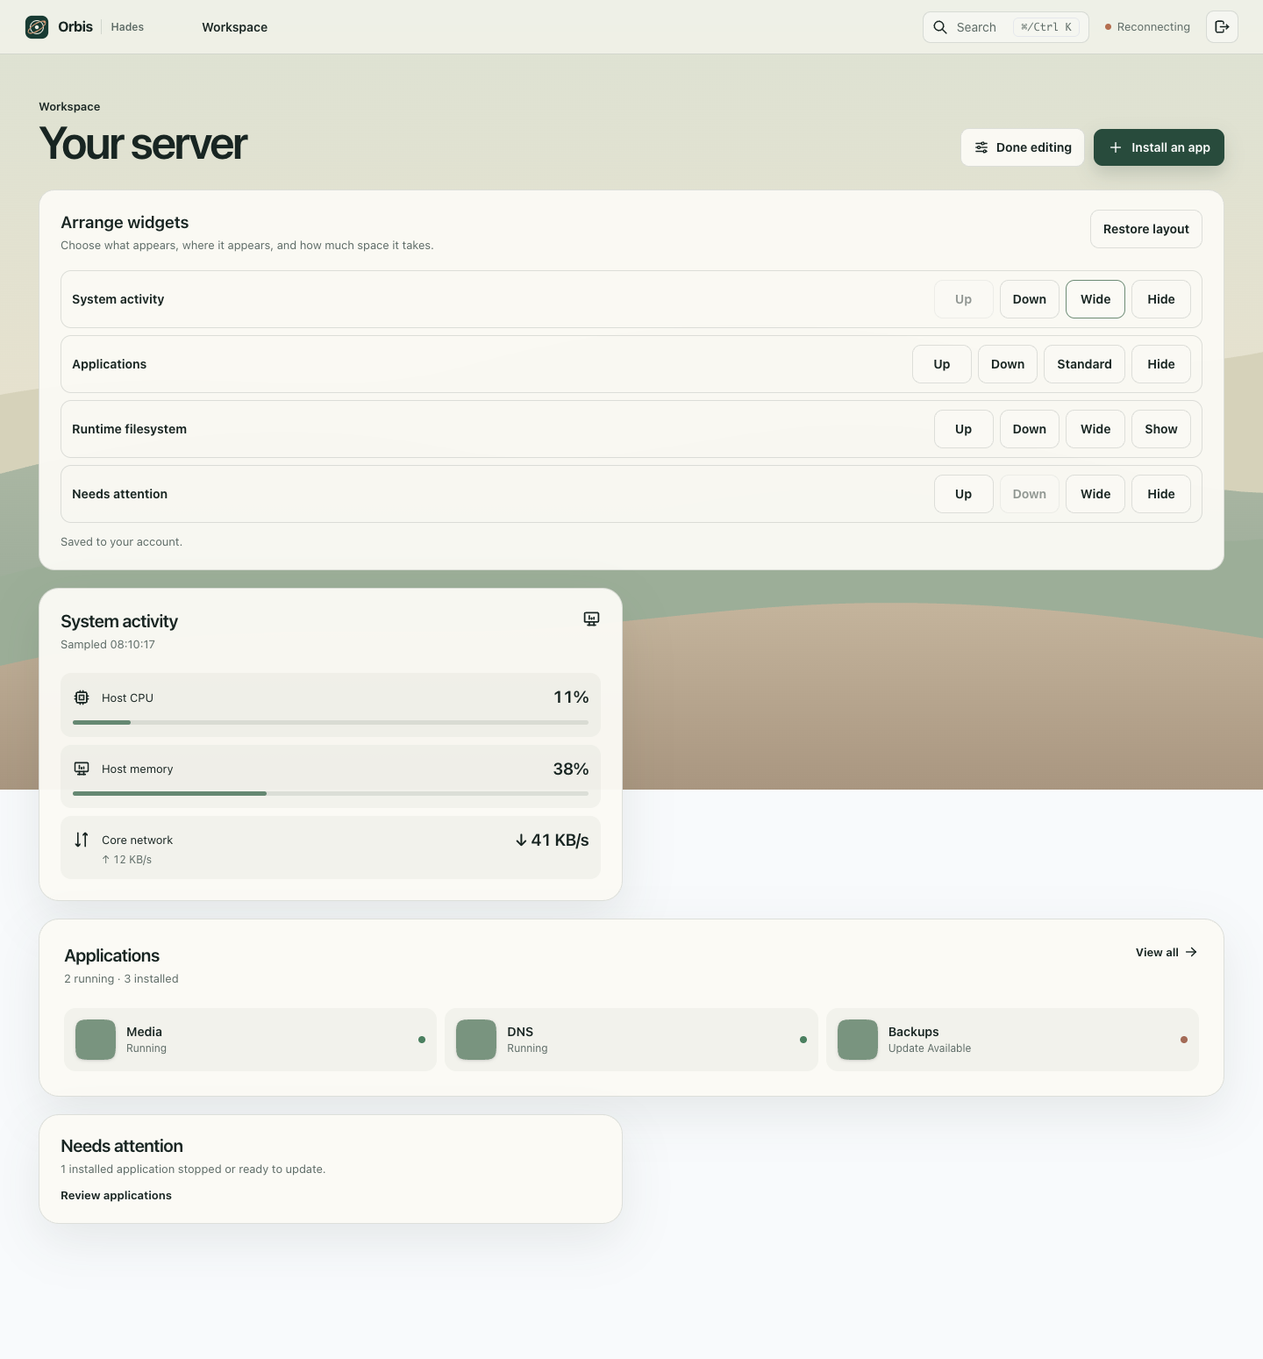
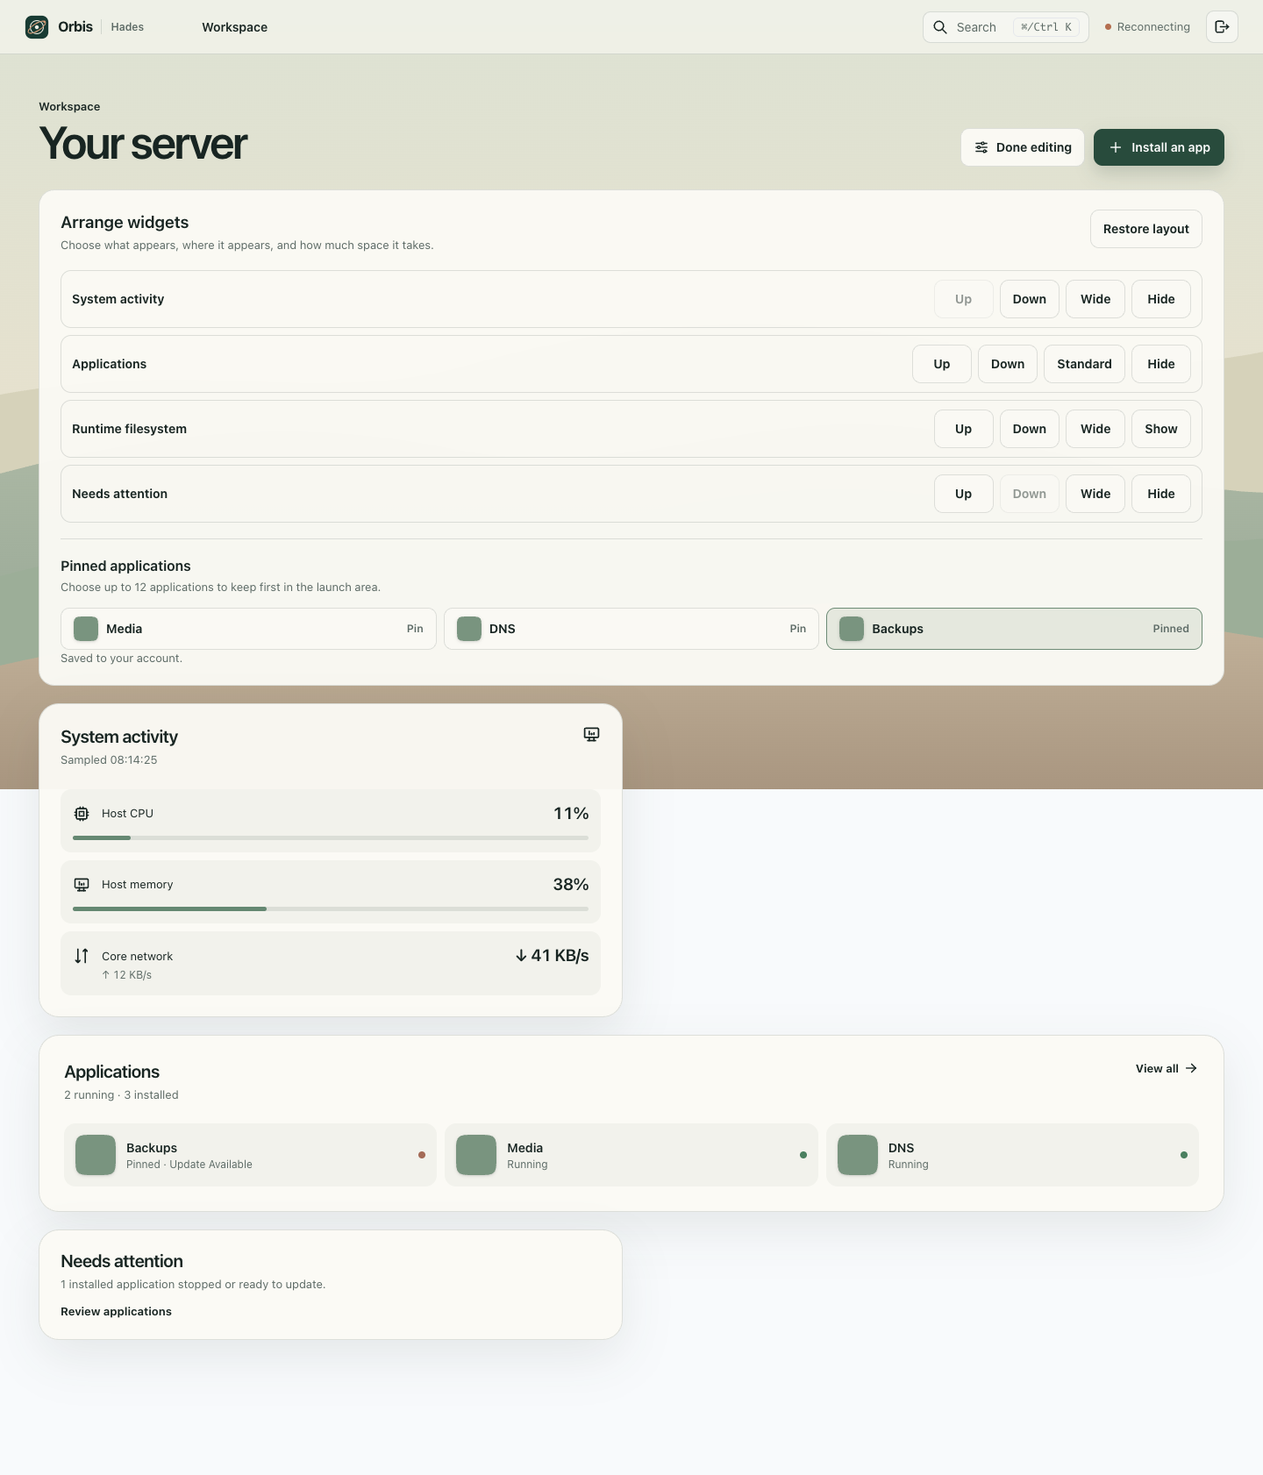
Add per-user application pinning to Workspace

diff --git a/packages/frontend/src/modules/dashboard/pages/dashboard.tsx b/packages/frontend/src/modules/dashboard/pages/dashboard.tsx
@@ -52,6 +52,17 @@ export default function Dashboard() {
     refetchIntervalInBackground: false,
   });
   const installed = apps.data?.installed.filter(({ info }) => info.available) ?? [];
+  const orderedInstalled = [...installed].sort((left, right) => {
+    const leftPin = workspace.pinnedApps.indexOf(left.info.urn);
+    const rightPin = workspace.pinnedApps.indexOf(right.info.urn);
+    if (leftPin < 0 && rightPin < 0) return 0;
+    if (leftPin < 0) return 1;
+    if (rightPin < 0) return -1;
+    return leftPin - rightPin;
+  });
+  const installedUrns = new Set(installed.map(({ info }) => info.urn));
+  const missingPins = workspace.pinnedApps.filter((urn) => !installedUrns.has(urn));
+  const visibleInstalled = orderedInstalled.slice(0, Math.max(8, workspace.pinnedApps.length - missingPins.length));
   const running = installed.filter(({ app }) => app.status === 'running').length;
   const attention = installed.filter(({ app, metadata }) => app.status === 'stopped' || Number(app.version) < Number(metadata.latestVersion)).length;
   const disk = system.data?.filesystems.find((filesystem) => filesystem.mount === '/') ?? system.data?.filesystems[0];
@@ -83,6 +94,11 @@ export default function Dashboard() {
   const toggle = (id: WidgetId, field: 'hidden' | 'wide') => {
     const current = workspace[field];
     saveWorkspace({ ...workspace, [field]: current.includes(id) ? current.filter((item) => item !== id) : [...current, id] });
+  };
+  const togglePin = (urn: string) => {
+    const current = workspace.pinnedApps;
+    if (!current.includes(urn) && current.length >= 12) return;
+    saveWorkspace({ ...workspace, pinnedApps: current.includes(urn) ? current.filter((item) => item !== urn) : [...current, urn] });
   };
 
   const widgets: Record<WidgetId, ReactNode> = {
@@ -124,7 +140,7 @@ export default function Dashboard() {
         ) : null}
         {installed.length > 0 ? (
           <div className="workspace-app-list">
-            {installed.slice(0, 8).map(({ app, info, metadata }) => {
+            {visibleInstalled.map(({ app, info, metadata }) => {
               const [appId, storeId] = info.urn.split(':');
               const appUpdate = Number(app.version) < Number(metadata.latestVersion) && app.ignoredVersion !== metadata.latestVersion;
               return (
@@ -132,12 +148,12 @@ export default function Dashboard() {
                   key={info.urn}
                   to={`/apps/${storeId}/${appId}`}
                   className="workspace-app"
-                  aria-label={`${info.name}, ${app.status}${appUpdate ? ', update available' : ''}`}
+                  aria-label={`${info.name}, ${app.status}${appUpdate ? ', update available' : ''}${workspace.pinnedApps.includes(info.urn) ? ', pinned' : ''}`}
                 >
                   <AppLogo urn={info.urn} size={46} alt="" />
                   <span className="workspace-app-copy">
                     <strong>{info.name}</strong>
-                    <small>{appUpdate ? 'Update available' : app.status}</small>
+                    <small>{`${workspace.pinnedApps.includes(info.urn) ? 'Pinned · ' : ''}${appUpdate ? 'Update available' : app.status}`}</small>
                   </span>
                   <span className={`workspace-app-status ${app.status}`} aria-hidden="true" />
                 </Link>
@@ -272,6 +288,7 @@ export default function Dashboard() {
                   order: [...defaultDesktopPreferences.workspace.order],
                   hidden: [],
                   wide: [...defaultDesktopPreferences.workspace.wide],
+                  pinnedApps: [...workspace.pinnedApps],
                 })
               }
             >
@@ -312,6 +329,44 @@ export default function Dashboard() {
               </li>
             ))}
           </ol>
+          <div className="workspace-pin-editor">
+            <div>
+              <h3>Pinned applications</h3>
+              <p>Choose up to 12 applications to keep first in the launch area.</p>
+            </div>
+            {apps.isPending ? <p>Loading installed applications…</p> : null}
+            {apps.isError ? <p role="alert">Applications could not be loaded. Pinning is unavailable right now.</p> : null}
+            {apps.data && installed.length === 0 ? <p>Install an application to pin it here.</p> : null}
+            {installed.length > 0 ? (
+              <div className="workspace-pin-list">
+                {installed.map(({ info }) => {
+                  const pinned = workspace.pinnedApps.includes(info.urn);
+                  return (
+                    <button
+                      key={info.urn}
+                      type="button"
+                      aria-pressed={pinned}
+                      aria-label={`${pinned ? 'Unpin' : 'Pin'} ${info.name}`}
+                      disabled={!pinned && workspace.pinnedApps.length >= 12}
+                      onClick={() => togglePin(info.urn)}
+                    >
+                      <AppLogo urn={info.urn} size={28} alt="" />
+                      <span>{info.name}</span>
+                      <small>{pinned ? 'Pinned' : 'Pin'}</small>
+                    </button>
+                  );
+                })}
+              </div>
+            ) : null}
+            {missingPins.length > 0 ? (
+              <button
+                type="button"
+                onClick={() => saveWorkspace({ ...workspace, pinnedApps: workspace.pinnedApps.filter((urn) => installedUrns.has(urn)) })}
+              >
+                Remove {missingPins.length} unavailable pin{missingPins.length === 1 ? '' : 's'}
+              </button>
+            ) : null}
+          </div>
           <p className="workspace-editor-sync" role={syncState === 'error' ? 'alert' : undefined}>
             {syncState === 'saving'
               ? 'Saving layout…'

diff --git a/packages/frontend/src/desktop/preferences.tsx b/packages/frontend/src/desktop/preferences.tsx
@@ -4,7 +4,7 @@ import { useUIStore } from '@/stores/ui-store';
 
 export const widgetIds = ['applications', 'activity', 'storage', 'attention'] as const;
 export type WidgetId = (typeof widgetIds)[number];
-export type WorkspacePreferences = { order: WidgetId[]; hidden: WidgetId[]; wide: WidgetId[] };
+export type WorkspacePreferences = { order: WidgetId[]; hidden: WidgetId[]; wide: WidgetId[]; pinnedApps: string[] };
 
 export type DesktopPreferences = {
   serverName: string;
@@ -19,20 +19,30 @@ export const defaultDesktopPreferences: DesktopPreferences = {
   preset: 'frost',
   density: 'comfortable',
   wallpaper: 'sandstone',
-  workspace: { order: [...widgetIds], hidden: [], wide: ['applications', 'activity'] },
+  workspace: { order: [...widgetIds], hidden: [], wide: ['applications', 'activity'], pinnedApps: [] },
 };
 const STORAGE_KEY = 'server-desktop-preferences-v1';
 
-type StoredDesktopPreferences = Omit<DesktopPreferences, 'wallpaper' | 'workspace'> & Partial<Pick<DesktopPreferences, 'wallpaper' | 'workspace'>>;
+type StoredWorkspacePreferences = Omit<WorkspacePreferences, 'pinnedApps'> & Partial<Pick<WorkspacePreferences, 'pinnedApps'>>;
+type StoredDesktopPreferences = Omit<DesktopPreferences, 'wallpaper' | 'workspace'> &
+  Partial<Pick<DesktopPreferences, 'wallpaper'>> & { workspace?: StoredWorkspacePreferences };
 
 const isWidgetList = (value: unknown): value is WidgetId[] =>
   Array.isArray(value) && value.length <= widgetIds.length && new Set(value).size === value.length && value.every((item) => widgetIds.includes(item));
 
-export const isWorkspacePreferences = (value: unknown): value is WorkspacePreferences => {
+export const isWorkspacePreferences = (value: unknown): value is StoredWorkspacePreferences => {
   if (!value || typeof value !== 'object') return false;
   const workspace = value as Record<string, unknown>;
   return (
-    isWidgetList(workspace.order) && workspace.order.length === widgetIds.length && isWidgetList(workspace.hidden) && isWidgetList(workspace.wide)
+    isWidgetList(workspace.order) &&
+    workspace.order.length === widgetIds.length &&
+    isWidgetList(workspace.hidden) &&
+    isWidgetList(workspace.wide) &&
+    (workspace.pinnedApps === undefined ||
+      (Array.isArray(workspace.pinnedApps) &&
+        workspace.pinnedApps.length <= 12 &&
+        new Set(workspace.pinnedApps).size === workspace.pinnedApps.length &&
+        workspace.pinnedApps.every((urn) => typeof urn === 'string' && urn.length > 2 && urn.length <= 180 && /^[^:]+:[^:]+$/.test(urn))))
   );
 };
 
@@ -53,7 +63,7 @@ export const isPreferences = (value: unknown): value is StoredDesktopPreferences
 export const normalisePreferences = (value: StoredDesktopPreferences): DesktopPreferences => ({
   ...defaultDesktopPreferences,
   ...value,
-  workspace: value.workspace ?? defaultDesktopPreferences.workspace,
+  workspace: { ...defaultDesktopPreferences.workspace, ...value.workspace },
 });
 
 type PreferenceContext = {

diff --git a/packages/backend/src/modules/desktop-preferences/desktop-preferences.test.ts b/packages/backend/src/modules/desktop-preferences/desktop-preferences.test.ts
@@ -91,7 +91,7 @@ describe('desktop preferences', () => {
       .set('Authorization', 'Bearer test')
       .send({ ...DEFAULT_DESKTOP_PREFERENCES, workspace });
     expect(saved.status).toBe(200);
-    expect(saved.body.workspace).toEqual(workspace);
+    expect(saved.body.workspace).toEqual({ ...workspace, pinnedApps: [] });
     const invalid = await request(app.getHttpServer())
       .put('/desktop-preferences')
       .set('Authorization', 'Bearer test')
@@ -102,5 +102,28 @@ describe('desktop preferences', () => {
       .set('Authorization', 'Bearer test')
       .send({ ...DEFAULT_DESKTOP_PREFERENCES, workspace: { ...workspace, hidden: ['admin-shell'] } });
     expect(unknown.status).toBe(400);
+  });
+
+  it('keeps old widget layouts and validates pinned app identities', async () => {
+    const workspace = { order: ['applications', 'activity', 'storage', 'attention'], hidden: [], wide: ['applications'] };
+    await fs.writeFile(path.join(directory, 'state', 'desktop', '7.json'), JSON.stringify({ ...DEFAULT_DESKTOP_PREFERENCES, workspace }));
+    const inherited = await request(app.getHttpServer()).get('/desktop-preferences').set('Authorization', 'Bearer test');
+    expect(inherited.body.workspace).toEqual({ ...workspace, pinnedApps: [] });
+    const saved = await request(app.getHttpServer())
+      .put('/desktop-preferences')
+      .set('Authorization', 'Bearer test')
+      .send({ ...DEFAULT_DESKTOP_PREFERENCES, workspace: { ...workspace, pinnedApps: ['whoami:migrated'] } });
+    expect(saved.status).toBe(200);
+    expect(saved.body.workspace.pinnedApps).toEqual(['whoami:migrated']);
+    const invalid = await request(app.getHttpServer())
+      .put('/desktop-preferences')
+      .set('Authorization', 'Bearer test')
+      .send({ ...DEFAULT_DESKTOP_PREFERENCES, workspace: { ...workspace, pinnedApps: ['whoami:migrated', 'whoami:migrated'] } });
+    expect(invalid.status).toBe(400);
+    const malformed = await request(app.getHttpServer())
+      .put('/desktop-preferences')
+      .set('Authorization', 'Bearer test')
+      .send({ ...DEFAULT_DESKTOP_PREFERENCES, workspace: { ...workspace, pinnedApps: [':migrated'] } });
+    expect(malformed.status).toBe(400);
   });
 });

diff --git a/packages/backend/src/modules/desktop-preferences/desktop-preferences.service.ts b/packages/backend/src/modules/desktop-preferences/desktop-preferences.service.ts
@@ -7,7 +7,7 @@ import path from 'node:path';
 import { desktopPreferencesSchema } from './desktop-preferences.dto';
 
 export type DesktopPreferences = typeof desktopPreferencesSchema.infer;
-export const DEFAULT_DESKTOP_PREFERENCES: DesktopPreferences = {
+export const DEFAULT_DESKTOP_PREFERENCES: DesktopPreferences & { workspace: NonNullable<DesktopPreferences['workspace']> } = {
   serverName: 'Hades',
   preset: 'frost',
   density: 'comfortable',
@@ -16,6 +16,7 @@ export const DEFAULT_DESKTOP_PREFERENCES: DesktopPreferences = {
     order: ['applications', 'activity', 'storage', 'attention'],
     hidden: [],
     wide: ['applications', 'activity'],
+    pinnedApps: [],
   },
 };
 
@@ -33,7 +34,13 @@ export class DesktopPreferencesService {
       const raw = await fs.readFile(this.fileFor(userId), 'utf8');
       const parsed: unknown = JSON.parse(raw);
       const result = desktopPreferencesSchema(parsed);
-      return result instanceof type.errors ? DEFAULT_DESKTOP_PREFERENCES : { ...DEFAULT_DESKTOP_PREFERENCES, ...result };
+      return result instanceof type.errors
+        ? DEFAULT_DESKTOP_PREFERENCES
+        : {
+            ...DEFAULT_DESKTOP_PREFERENCES,
+            ...result,
+            workspace: { ...DEFAULT_DESKTOP_PREFERENCES.workspace, ...result.workspace },
+          };
     } catch (error) {
       if ((error as NodeJS.ErrnoException).code === 'ENOENT') return DEFAULT_DESKTOP_PREFERENCES;
       throw error;
@@ -42,7 +49,11 @@ export class DesktopPreferencesService {
 
   async write(userId: number, preferences: DesktopPreferences): Promise<DesktopPreferences> {
     const file = this.fileFor(userId);
-    const value = { ...DEFAULT_DESKTOP_PREFERENCES, ...preferences };
+    const value = {
+      ...DEFAULT_DESKTOP_PREFERENCES,
+      ...preferences,
+      workspace: { ...DEFAULT_DESKTOP_PREFERENCES.workspace, ...preferences.workspace },
+    };
     await fs.mkdir(path.dirname(file), { recursive: true, mode: 0o700 });
     const temporary = `${file}.${process.pid}.${randomUUID()}.tmp`;
     try {

diff --git a/packages/frontend/src/modules/dashboard/pages/dashboard.css b/packages/frontend/src/modules/dashboard/pages/dashboard.css
@@ -114,6 +114,44 @@
 .workspace-editor-controls button {
   min-width: 68px;
 }
+.workspace-pin-editor {
+  padding-top: 18px;
+  margin-top: 18px;
+  border-top: 1px solid var(--desktop-line);
+}
+.workspace-pin-editor h3 {
+  margin: 0 0 3px;
+  font-size: 16px;
+}
+.workspace-pin-editor p {
+  margin: 0 0 14px;
+  color: var(--desktop-muted);
+  font-size: 13px;
+}
+.workspace-pin-list {
+  display: grid;
+  grid-template-columns: repeat(3, minmax(0, 1fr));
+  gap: 8px;
+}
+.workspace-pin-list button {
+  display: grid;
+  grid-template-columns: 28px minmax(0, 1fr);
+  align-items: center;
+  column-gap: 9px;
+  min-width: 0;
+  text-align: left;
+}
+.workspace-pin-list button[aria-pressed="true"] {
+  border-color: #6d8b75;
+  background: rgba(103, 143, 110, 0.14);
+}
+.workspace-pin-list button span:not(.app-logo) {
+  min-width: 0;
+  overflow-wrap: anywhere;
+}
+.workspace-pin-editor > button {
+  margin-top: 12px;
+}
 .workspace-all-hidden {
   grid-column: 1 / -1;
   padding: 32px;
@@ -413,6 +451,11 @@
   color: var(--desktop-muted);
   font-size: 12px;
 }
+.workspace-pin-list button small {
+  grid-column: 2;
+  color: var(--desktop-muted);
+  font-weight: 600;
+}
 .workspace-attention {
   padding: 22px 24px;
 }
@@ -424,11 +467,17 @@
   font-size: 13px;
 }
 @media (max-width: 900px) {
+  .workspace-pin-list {
+    grid-template-columns: repeat(2, minmax(0, 1fr));
+  }
   .workspace-widget-wide .workspace-app-list {
     grid-template-columns: repeat(2, minmax(0, 1fr));
   }
 }
 @media (max-width: 700px) {
+  .workspace-pin-list {
+    grid-template-columns: 1fr;
+  }
   .workspace-grid {
     grid-template-columns: 1fr;
   }

diff --git a/packages/backend/src/modules/desktop-preferences/desktop-preferences.dto.ts b/packages/backend/src/modules/desktop-preferences/desktop-preferences.dto.ts
@@ -7,6 +7,9 @@ const workspace = type({
   order: widgetList,
   hidden: widgetList,
   wide: widgetList,
+  'pinnedApps?': type('string > 2 & string <= 180')
+    .array()
+    .narrow((items) => items.length <= 12 && new Set(items).size === items.length && items.every((item) => /^[^:]+:[^:]+$/.test(item))),
 }).narrow(({ order }) => order.length === 4);
 
 export const desktopPreferencesSchema = type({

diff --git a/IMPLEMENTATION.md b/IMPLEMENTATION.md
@@ -23,7 +23,7 @@ The requested browser Update Center for apps, Orbis releases, and host packages 
 
 - Authenticated server desktop shell with a responsive top bar, dock, first-party routes, keyboard tool and installed-app search, and logout through the existing API.
 - Workspace populated from Runtipi's installed-app and links APIs plus the authenticated telemetry endpoint shared with Monitor. It labels host CPU and memory, core-container network, and runtime filesystem readings. App and store detail links keep their original routes and lifecycle components.
-- Explicit Workspace edit mode for the four current widgets. A user can show, hide, reorder, choose standard or wide width, and restore the layout through visible keyboard-operable buttons. Layout is saved per user with appearance preferences; old saved files load with the default layout.
+- Explicit Workspace edit mode for the four current widgets. A user can show, hide, reorder, choose standard or wide width, and restore the layout through visible keyboard-operable buttons. Up to 12 installed applications can be pinned to the front of the launch area. Layout and pins are saved per user with appearance preferences; old saved files load with the default layout.
 - System Monitor uses a new authenticated `/api/system/telemetry` endpoint for current per-core CPU, host-mounted memory and swap, runtime filesystems, and runtime network interfaces. Unavailable readings stay unavailable. Live charts keep at most 60 samples in the open browser view; there is no fabricated or persisted history.
 - New per-user desktop appearance endpoint under `/api/desktop-preferences`, protected by Runtipi's `AuthGuard` and request validation. Data is stored under the existing `/data/state/desktop` mount, with browser caching and export/import of non-secret settings.
 - Three bundled original SVG wallpapers and six appearance presets, with saved per-user selection. Login, app list, store, settings, and detail routes sit within the shared visual shell.
@@ -32,7 +32,7 @@ The requested browser Update Center for apps, Orbis releases, and host packages 
 
 ## Current limits
 
-- This is an implemented first slice, not yet a drop-in Runtipi replacement. The store and detail flows still need deeper visual work; task history, window controls, application pin groups, expanded monitoring, wallpaper upload, and advanced theme controls are pending. Widget editing currently covers four fixed widgets with button controls; drag positioning and additional widget types remain open.
+- This is an implemented first slice, not yet a drop-in Runtipi replacement. The store and detail flows still need deeper visual work; task history, window controls, application groups and recent-use ordering, expanded monitoring, wallpaper upload, and advanced theme controls are pending. Widget editing currently covers four fixed widgets with button controls; drag positioning and additional widget types remain open.
 - The inherited `/system/load` endpoint reports CPU and filesystem data from the Runtipi runtime; the new workspace uses `/system/telemetry` instead. That endpoint reports host CPU and memory when the read-only proc mounts exist, while filesystem and network detail still describe the Orbis core container. Host-wide disks/network, temperatures, fans, GPU, container telemetry, and historical storage still need explicit host mounts or an agent design.
 - Browser screenshots include labelled development fixtures and a clean-install run against an isolated Colima Docker daemon. The latter verified registration, welcome, main routes, authenticated telemetry/preferences, and a 248-entry official catalogue. A disposable Whoami lifecycle and a synthetic stock CLI migration/rollback have since passed. Migration of real homelab data remains untested.
 - The official app-store connection uses the unchanged Runtipi mechanism. Catalogue search and one official Whoami install/uninstall path were verified on the clean install; app updates and custom-store refresh still need disposable-daemon checks.
@@ -49,4 +49,4 @@ The existing per-app reset action is retained. An instance-wide reset needs a se
 
 ## Verification boundary
 
-The macOS development machine uses a project-local Bun runner and an isolated Colima Linux VM for Docker tests. Bun installed dependencies and completed type checks, tests, and production bundles. `scripts/visual-qa.cjs` exercised fixture-based desktop and mobile routes in installed Chrome; it also checked widget reorder, hide, width, and persistence on desktop, phone, and a 320px viewport with enlarged editor text. `scripts/live-smoke.cjs` exercised a clean-install browser session and the real APIs against the VM. With `ORBIS_SMOKE_LIFECYCLE=1`, it also completed install, stop, start, restart, backup, reset, restore, and uninstall for the official Whoami app. The authenticated preference and build endpoints passed unit and live checks. A separate synthetic Runtipi CLI install with Whoami and a custom core override booted with local Orbis and returned to stock from a stopped-state copy. All three published arm64 beta images were pulled by immutable digest and booted on the synthetic CLI install. Beta 1 launched inherited Whoami through its browser Open control. A local build after beta 2 verified immediate startup reconciliation of an inherited app whose container had stopped. Beta 3 passed an enrolled host-command stop/start cycle on the disposable CLI copy. Beta 4 was published with a matching manifest and GHCR index for amd64 and arm64; its runtime has not yet been booted in the VM. Migration of actual existing homelab data still requires an isolated consistent copy. Hades is reserved for the later deployment phase.
+The macOS development machine uses a project-local Bun runner and an isolated Colima Linux VM for Docker tests. Bun installed dependencies and completed type checks, tests, and production bundles. `scripts/visual-qa.cjs` exercised fixture-based desktop and mobile routes in installed Chrome; it also checked widget reorder, hide, width, app pinning, and persistence on desktop, phone, and a 320px viewport with enlarged editor text. `scripts/live-smoke.cjs` exercised a clean-install browser session and the real APIs against the VM. With `ORBIS_SMOKE_LIFECYCLE=1`, it also completed install, stop, start, restart, backup, reset, restore, and uninstall for the official Whoami app. The authenticated preference and build endpoints passed unit and live checks. A separate synthetic Runtipi CLI install with Whoami and a custom core override booted with local Orbis and returned to stock from a stopped-state copy. All three published arm64 beta images were pulled by immutable digest and booted on the synthetic CLI install. Beta 1 launched inherited Whoami through its browser Open control. A local build after beta 2 verified immediate startup reconciliation of an inherited app whose container had stopped. Beta 3 passed an enrolled host-command stop/start cycle on the disposable CLI copy. Beta 4 was published with a matching manifest and GHCR index for amd64 and arm64; its runtime has not yet been booted in the VM. Migration of actual existing homelab data still requires an isolated consistent copy. Hades is reserved for the later deployment phase.
